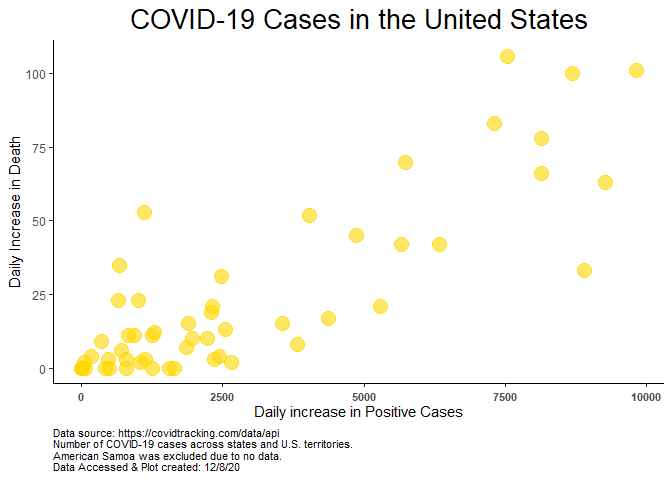
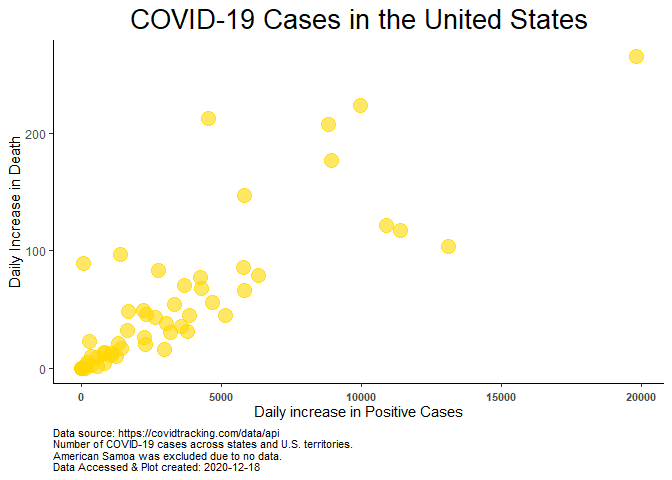
Added animation plot. Needs work.

diff --git a/R/README.md b/R/README.md
@@ -18,57 +18,57 @@ head(data)
 ```
 
     ##       date state positive probableCases negative pending totalTestResultsSource
-    ## 1 20201207    AK    36196            NA  1045944      NA        totalTestsViral
-    ## 2 20201207    AL   272229         46440  1425784      NA  totalTestsPeopleViral
-    ## 3 20201207    AR   172042         22867  1623898      NA        totalTestsViral
-    ## 4 20201207    AS        0            NA     2140      NA        totalTestsViral
-    ## 5 20201207    AZ   365843         12708  2035704      NA  totalTestsPeopleViral
-    ## 6 20201207    CA  1366435            NA 24126916      NA        totalTestsViral
+    ## 1 20201217    AK    41418            NA  1134305      NA        totalTestsViral
+    ## 2 20201217    AL   310335         56971  1499349      NA  totalTestsPeopleViral
+    ## 3 20201217    AR   194543         29031  1734262      NA        totalTestsViral
+    ## 4 20201217    AS        0            NA     2140      NA        totalTestsViral
+    ## 5 20201217    AZ   435036         17546  2165904      NA        totalTestsViral
+    ## 6 20201217    CA  1723362            NA 26732996      NA        totalTestsViral
     ##   totalTestResults hospitalizedCurrently hospitalizedCumulative inIcuCurrently
-    ## 1          1082140                   166                    805             NA
-    ## 2          1651573                  2079                  27044             NA
-    ## 3          1773073                  1053                   9445            382
+    ## 1          1175723                   140                    921             NA
+    ## 2          1752713                  2425                  29559             NA
+    ## 3          1899774                  1084                  10357            374
     ## 4             2140                    NA                     NA             NA
-    ## 5          2388839                  3059                  28273            736
-    ## 6         25493351                 10998                     NA           2470
+    ## 5          4462666                  3884                  31851            899
+    ## 6         28456358                 16426                     NA           3392
     ##   inIcuCumulative onVentilatorCurrently onVentilatorCumulative recovered
-    ## 1              NA                    24                     NA      7165
-    ## 2            2290                    NA                   1317    168387
-    ## 3              NA                   182                   1044    151248
+    ## 1              NA                    14                     NA      7165
+    ## 2            2383                    NA                   1369    183625
+    ## 3              NA                   188                   1125    169745
     ## 4              NA                    NA                     NA        NA
-    ## 5              NA                   459                     NA     57040
+    ## 5              NA                   618                     NA     64500
     ## 6              NA                    NA                     NA        NA
-    ##   dataQualityGrade    lastUpdateEt         dateModified checkTimeEt death
-    ## 1                A 12/7/2020 03:59 2020-12-07T03:59:00Z 12/06 22:59   146
-    ## 2                A 12/7/2020 11:00 2020-12-07T11:00:00Z 12/07 06:00  3892
-    ## 3               A+ 12/7/2020 00:00 2020-12-07T00:00:00Z 12/06 19:00  2713
-    ## 4                D 12/1/2020 00:00 2020-12-01T00:00:00Z 11/30 19:00     0
-    ## 5               A+ 12/7/2020 00:00 2020-12-07T00:00:00Z 12/06 19:00  6950
-    ## 6                B 12/7/2020 02:59 2020-12-07T02:59:00Z 12/06 21:59 19935
+    ##   dataQualityGrade     lastUpdateEt         dateModified checkTimeEt death
+    ## 1                A 12/17/2020 03:59 2020-12-17T03:59:00Z 12/16 22:59   183
+    ## 2                A 12/17/2020 11:00 2020-12-17T11:00:00Z 12/17 06:00  4254
+    ## 3               A+ 12/17/2020 00:00 2020-12-17T00:00:00Z 12/16 19:00  3112
+    ## 4                D  12/1/2020 00:00 2020-12-01T00:00:00Z 11/30 19:00     0
+    ## 5               A+ 12/17/2020 00:00 2020-12-17T00:00:00Z 12/16 19:00  7677
+    ## 6                B 12/17/2020 02:59 2020-12-17T02:59:00Z 12/16 21:59 21860
     ##   hospitalized          dateChecked totalTestsViral positiveTestsViral
-    ## 1          805 2020-12-07T03:59:00Z         1082140              43903
-    ## 2        27044 2020-12-07T11:00:00Z              NA                 NA
-    ## 3         9445 2020-12-07T00:00:00Z         1773073                 NA
+    ## 1          921 2020-12-17T03:59:00Z         1175723              49566
+    ## 2        29559 2020-12-17T11:00:00Z              NA                 NA
+    ## 3        10357 2020-12-17T00:00:00Z         1899774                 NA
     ## 4           NA 2020-12-01T00:00:00Z            2140                 NA
-    ## 5        28273 2020-12-07T00:00:00Z              NA                 NA
-    ## 6           NA 2020-12-07T02:59:00Z        25493351                 NA
+    ## 5        31851 2020-12-17T00:00:00Z         4462666                 NA
+    ## 6           NA 2020-12-17T02:59:00Z        28456358                 NA
     ##   negativeTestsViral positiveCasesViral deathConfirmed deathProbable
-    ## 1            1037022                 NA            146            NA
-    ## 2                 NA             225789           3465           427
-    ## 3            1623898             149175           2485           228
+    ## 1            1124849                 NA            183            NA
+    ## 2                 NA             253364           3745           509
+    ## 3            1734262             165512           2755           357
     ## 4                 NA                  0             NA            NA
-    ## 5                 NA             353135           6431           519
-    ## 6                 NA            1366435             NA            NA
+    ## 5                 NA             417490           7040           637
+    ## 6                 NA            1723362             NA            NA
     ##   totalTestEncountersViral totalTestsPeopleViral totalTestsAntibody
     ## 1                       NA                    NA                 NA
-    ## 2                       NA               1651573                 NA
+    ## 2                       NA               1752713                 NA
     ## 3                       NA                    NA                 NA
     ## 4                       NA                    NA                 NA
-    ## 5                       NA               2388839             371261
+    ## 5                       NA               2583394             381042
     ## 6                       NA                    NA                 NA
     ##   positiveTestsAntibody negativeTestsAntibody totalTestsPeopleAntibody
     ## 1                    NA                    NA                       NA
-    ## 2                    NA                    NA                    74956
+    ## 2                    NA                    NA                    80026
     ## 3                    NA                    NA                       NA
     ## 4                    NA                    NA                       NA
     ## 5                    NA                    NA                       NA
@@ -83,31 +83,31 @@ head(data)
     ##   totalTestsPeopleAntigen positiveTestsPeopleAntigen totalTestsAntigen
     ## 1                      NA                         NA                NA
     ## 2                      NA                         NA                NA
-    ## 3                  156801                      27881             21856
+    ## 3                  194199                      35233             21856
     ## 4                      NA                         NA                NA
     ## 5                      NA                         NA                NA
     ## 6                      NA                         NA                NA
     ##   positiveTestsAntigen fips positiveIncrease negativeIncrease    total
-    ## 1                   NA    2              476             3888  1082140
-    ## 2                   NA    1             2352             4658  1698013
-    ## 3                 3300    5             1118             8919  1795940
+    ## 1                   NA    2              377             9201  1175723
+    ## 2                   NA    1             4695             8070  1809684
+    ## 3                 3300    5             3039            11404  1928805
     ## 4                   NA   60                0                0     2140
-    ## 5                   NA    4             1567            16891  2401547
-    ## 6                   NA    6            24735           273570 25493351
+    ## 5                   NA    4             5817            17714  2600940
+    ## 6                   NA    6            52281           254487 28456358
     ##   totalTestResultsIncrease   posNeg deathIncrease hospitalizedIncrease
-    ## 1                     4364  1082140             3                    6
-    ## 2                     6532  1698013             3                  713
-    ## 3                     9923  1795940            53                   44
+    ## 1                     9578  1175723             2                    0
+    ## 2                    11585  1809684            56                    0
+    ## 3                    13686  1928805            38                  127
     ## 4                        0     2140             0                    0
-    ## 5                    18340  2401547             0                   25
-    ## 6                   298305 25493351            59                    0
+    ## 5                    53583  2600940           147                  383
+    ## 6                   306768 28456358           379                    0
     ##                                       hash commercialScore negativeRegularScore
-    ## 1 76febf2618a346518b43da2fa5bbd7591a608060               0                    0
-    ## 2 df860fde17a5e26e2d44bcdef12ed7928128398e               0                    0
-    ## 3 003efdc66daa06f5067d9e0f1c19f48a57a42be0               0                    0
-    ## 4 184abb6c50736a266d8165ce2eee0300b37622b5               0                    0
-    ## 5 3d6b48f3f0135bca4182ebe8df867dae4ceccb16               0                    0
-    ## 6 552f9cf03157e965371e7c64aa6dc117dd7be8d5               0                    0
+    ## 1 35eda35e6c6987a9f6dac3396beff3b60e2dc49f               0                    0
+    ## 2 b357032f7d16c426a76c064235896ed63f6202b7               0                    0
+    ## 3 ce1ac026a38b10533d78a601bd83611f1e0880ad               0                    0
+    ## 4 e410d5579aee323668e557db64dc42ce339d46a8               0                    0
+    ## 5 322b661ae7d4134d63ad6c2fe4100d45b20abc8f               0                    0
+    ## 6 87f815eb53ef00cfe939b63c108f3cd9df2c5bda               0                    0
     ##   negativeScore positiveScore score grade
     ## 1             0             0     0    NA
     ## 2             0             0     0    NA
@@ -138,7 +138,7 @@ ggplot(pos_hos %>%
   xlab("States and Territories") +
   ylab("Case Numbers (Log-Fold )") +
   ggtitle("COVID-19 Cases in the United States") +
-  labs(caption = "Data source: https://covidtracking.com/data/api\nNumber of COVID-19 cases between states and U.S. territories.\nAmerican Samoa was excluded due to no data.\nNote: Y-axis case count is log-transformed.\nData Accessed & Plot created: 12/8/20") +
+  labs(caption = paste("Data source: https://covidtracking.com/data/api\nNumber of COVID-19 cases between states and U.S. territories.\nAmerican Samoa was excluded due to no data.\nNote: Y-axis case count is log-transformed.\nData Accessed & Plot created:",current_date)) +
   theme_classic() +
   theme(axis.text.x = element_text(angle = 90, vjust = 0.25, size = 12),
         axis.text.y = element_text(size = 12),
@@ -159,7 +159,7 @@ ggplot(data %>%
   xlab("States and Territories") +
   ylab("Number of Deaths") +
   ggtitle("Deaths due to COVID-19 in the United States") +
-  labs(caption = "Data source: https://covidtracking.com/data/api\nNumber of COVID-19 cases between states and U.S. territories.\nMissing states/territories imply no data.\nData Accessed & Plot created: 12/8/20") +
+  labs(caption = paste("Data source: https://covidtracking.com/data/api\nNumber of COVID-19 cases between states and U.S. territories.\nMissing states/territories imply no data.\nData Accessed & Plot created:", current_date)) +
   theme_classic() +
   geom_text(aes(label = deathConfirmed), vjust = -1) +
   theme(axis.text.x = element_text(angle = 90, vjust = 0.25, size = 12),
@@ -181,7 +181,7 @@ ggplot(data %>%
   xlab("Daily Increase in Positive Cases") +
   ylab("Daily Increase in Death Increase") +
   ggtitle("COVID-19 Cases in the United States") +
-  labs(caption = "Data source: https://covidtracking.com/data/api\nNumber of COVID-19 cases between states and U.S. territories.\nAmerican Samoa was excluded due to no data.\nData Accessed & Plot created: 12/8/20") +
+  labs(caption = paste("Data source: https://covidtracking.com/data/api\nNumber of COVID-19 cases between states and U.S. territories.\nAmerican Samoa was excluded due to no data.\nData Accessed & Plot created:", current_date)) +
   theme_classic() +
   theme(axis.text.x = element_text(vjust = 0.25, size = 8, face = "bold"),
         plot.title = element_text(hjust = 0.5, size = 20),
@@ -200,7 +200,7 @@ ggplot(data %>%
   xlab("Daily increase in Positive Cases") +
   ylab("Daily Increase in Death") +
   ggtitle("COVID-19 Cases in the United States") +
-  labs(caption = "Data source: https://covidtracking.com/data/api\nNumber of COVID-19 cases across states and U.S. territories.\nAmerican Samoa was excluded due to no data.\nData Accessed & Plot created: 12/8/20") +
+  labs(caption = paste("Data source: https://covidtracking.com/data/api\nNumber of COVID-19 cases across states and U.S. territories.\nAmerican Samoa was excluded due to no data.\nData Accessed & Plot created:", current_date)) +
   theme_classic() +
   theme(axis.text.x = element_text(vjust = 0.25, size = 8, face = "bold"),
         plot.title = element_text(hjust = 0.5, size = 20),
@@ -224,3 +224,118 @@ data <- data %>%
 data <- data %>% 
   left_join(info)
 ```
+
+# Cases in California example
+
+``` r
+ca <- read.csv("https://api.covidtracking.com/v1/states/ca/daily.csv")
+
+
+# make date variables; one for month, year and day
+
+iso <- "([0-9]{4})([0-1][0-9])([0-3][0-9])" # Year-Month-Day to match
+
+dates <- rematch2::re_match(text = ca %>% pull(date), pattern = iso) %>% 
+  rename(Year = 1,
+         Month = 2,
+         Day = 3) %>% 
+  unite("Date", c(Year, Month, Day), sep = "-", remove = FALSE)
+
+
+# Incorporate data to the main data frame.  
+```
+
+# Global trends
+
+Prepare a scatter plot animation for multiple countries cases vs deaths.
+
+``` r
+coun_res <- GET("https://corona.lmao.ninja/v2/historical?lastdays=100") # read in data
+
+coun_data = fromJSON(rawToChar(coun_res$content)) # Convert json to tabular data
+
+countrylist <- c("USA", "South Africa", "Mexico", "UK", "Brazil", "Italy", "India", "China","Australia") # Countries to analyze
+
+# Index of countries
+index <- coun_data %>%
+  pull(country) %in% countrylist %>% 
+  which()
+
+# Dates to capture (1st and 15th day of each month)
+
+captdate <- c(paste(c(1:12), rep("1/20", times = 12), sep = "/"), # first day of month
+           paste(c(1:12), rep("15/20", times = 12), sep = "/")) %>%  # 15th day of month
+  mdy()
+
+
+
+cases <- coun_data$timeline$cases %>% 
+  slice(index) %>% 
+  gather() %>% 
+  rename(Date = key, Cases = value) %>% 
+  mutate(Date = mdy(Date)) %>% 
+  filter(Date %in% captdate)
+  
+
+deaths <- coun_data$timeline$deaths  %>% 
+  slice(index) %>% 
+  gather() %>% 
+  rename(Date = key, Deaths = value) %>% 
+  mutate(Date = mdy(Date)) %>% 
+  filter(Date %in% captdate)
+
+recovered <- coun_data$timeline$recovered  %>% 
+  slice(index) %>% 
+  gather() %>% 
+  rename(Date = key, Recovered = value) %>% 
+  mutate(Date = mdy(Date)) %>% 
+  filter(Date %in% captdate)
+
+total <- cases %>% 
+  left_join(deaths, by = "Date") %>% 
+  left_join(recovered, by = "Date")
+
+
+rm(cases, deaths, recovered)
+
+total <- total %>% 
+  mutate(Country = rep(coun_data %>%
+                         slice(index) %>% 
+                         pull(country), times = nrow(total)/length(index)),
+         Province = rep(coun_data %>%
+                          slice(index) %>% 
+                          pull(province), times = nrow(total)/length(index)))
+
+# Collapse to obtain the total of Cases, Deaths and Recovered by Country
+
+total <- total %>% 
+  group_by(Country, Date) %>% 
+  summarise(Cases = sum(Cases), Deaths = sum(Deaths), Recovered = sum(Recovered))
+```
+
+# Make animation
+
+``` r
+p <- ggplot(
+  total, 
+  aes(x = Cases, y = Deaths, color = Country)
+  ) +
+  geom_point(alpha = 0.7, size = 5) +
+  ggtitle("COVID Cases & Deaths in Last 100 Days")  +
+  scale_color_brewer(palette = "Set3") +
+  scale_size(range = c(2, 12)) +
+  scale_x_log10() +
+  labs(x = "Cases", y = "Deaths") +
+  theme_classic() +
+  theme(axis.text.x = element_text(vjust = 0.25, size = 8, face = "bold"),
+        plot.title = element_text(hjust = 0.5, size = 20),
+         plot.caption = element_text(hjust = 0, size = 8)) +
+  theme(legend.position = "top")
+
+animation <- p + transition_time(Date) +
+  labs(title = "Date: {frame_time}")
+
+animation
+```
+
+![](README_files/figure-gfm/unnamed-chunk-10-1.gif)<!-- -->
